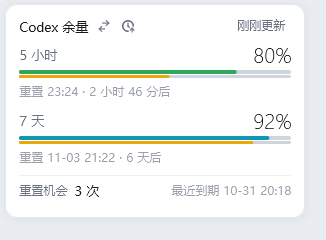
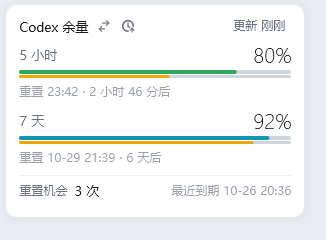
Revert "feat: three freshness states; stale data keeps its numbers readable"
This reverts commit 046c87d8dfeeff6c7dfdea384c7abfba7b8845b4.

diff --git a/src/ui.rs b/src/ui.rs
@@ -89,39 +89,18 @@ pub fn neutral_bar(light: bool) -> Rgba {
     }
 }
 
-/// One step lighter than `neutral_bar`: "this number is old", not "this number
-/// is gone". Two different failures need two different greys, otherwise a slow
-/// refresh looks exactly like a broken one.
-pub fn faded_bar(light: bool) -> Rgba {
-    if light {
-        Rgba::hex(0xB2BAC6)
-    } else {
-        Rgba::hex(0x5C6472)
-    }
-}
-
-/// How much the numbers on screen can still be trusted.
-#[derive(Clone, Copy, PartialEq, Eq, Debug)]
-pub enum Freshness {
-    /// fetched on schedule, nothing to apologise for
-    Fresh,
-    /// no error, but the sample is older than `STALE_AFTER`
-    Stale,
-    /// the latest attempt failed; `err` says why
-    Failing,
-}
-
 /// The two bars answer different questions. The 5h bar's colour is its
 /// **severity** (green / amber / red); the 7d bar's colour is its **identity**
 /// (cyan), so the two rows are told apart by colour instead of by weight and
-/// the bar never looks like it changed meaning. Old data gives up its colour
-/// (faded grey), failed data gives up more (neutral grey).
-fn bar_fill(t: &Theme, row: &RowView, state: Freshness) -> Rgba {
-    match state {
-        Freshness::Failing => neutral_bar(t.light),
-        Freshness::Stale => faded_bar(t.light),
-        Freshness::Fresh if row.limit_secs >= 86_400 => t.day,
-        Freshness::Fresh => severity(row.remaining),
+/// the bar never looks like it changed meaning. Grey wins over both when the
+/// data is stale.
+fn bar_fill(t: &Theme, row: &RowView, dim: bool) -> Rgba {
+    if dim {
+        neutral_bar(t.light)
+    } else if row.limit_secs >= 86_400 {
+        t.day
+    } else {
+        severity(row.remaining)
     }
 }
 
@@ -247,7 +226,7 @@ pub struct View {
 /// active cycle (180 s) with room for a retry, and short enough that a genuinely
 /// dead poller is obvious. The countdown bar is exempt — it is derived from the
 /// deadline, which does not rot with the data's age (see `paint_popover`).
-pub const STALE_AFTER: i64 = 900;
+const STALE_AFTER: i64 = 900;
 
 impl View {
     pub fn stale(&self) -> bool {
@@ -255,17 +234,6 @@ impl View {
     }
     pub fn failing(&self) -> bool {
         self.err.is_some() && self.err_at >= self.at
-    }
-    /// One value for the whole card: both painters read it, so the panel and the
-    /// mini can never disagree about how trustworthy the same number is.
-    pub fn freshness(&self) -> Freshness {
-        if self.failing() {
-            Freshness::Failing
-        } else if self.stale() {
-            Freshness::Stale
-        } else {
-            Freshness::Fresh
-        }
     }
 }
 
@@ -506,13 +474,6 @@ pub struct Hits {
 }
 
 /// The header's right-hand text, which doubles as the refresh button's label.
-///
-/// One verb, two states:「2 分钟前更新」when the sample is current and
-/// 「20 分钟未更新」once it is not. The old pair flipped the word order
-/// (「更新 2 分钟前」/「25 分钟前更新」), which read as two different facts when
-/// they were only one — and left the stale case looking like a typo. Swapping
-/// 更新/未更新 says the same thing in the same shape, and tells the user *why*
-/// the bars lost their colour.
 pub fn status_line(v: &View) -> String {
     if v.failing() {
         "更新失败".to_string()
@@ -520,11 +481,10 @@ pub fn status_line(v: &View) -> String {
         "刷新中…".to_string()
     } else if v.at == 0 {
         "读取中…".to_string()
-    } else if v.freshness() == Freshness::Stale {
-        // `ago` already says how long: "20 分钟前" -> "20 分钟未更新"
-        format!("{}未更新", fmt::ago(v.at, v.now).trim_end_matches('前'))
-    } else {
+    } else if v.stale() {
         format!("{}更新", fmt::ago(v.at, v.now))
+    } else {
+        format!("更新 {}", fmt::ago(v.at, v.now))
     }
 }
 
@@ -674,7 +634,6 @@ pub fn paint_popover(c: &mut Canvas, v: &View, t: &Theme, hover: Hover, scale: f
 
     let pad = s(PAD);
     let failing = v.failing();
-    let fresh = v.freshness();
     let hits = header_hits(v, scale, f);
 
     // header: title + switch on the left, refresh on the right ------------
@@ -792,18 +751,12 @@ pub fn paint_popover(c: &mut Canvas, v: &View, t: &Theme, hover: Hover, scale: f
             s(130.0) as i32,
             s(26.0) as i32,
             Align::Right,
-            // Stale numbers stay readable: they are still the best estimate we
-            // have, and greying them made the card look switched off. Only a
-            // failed fetch mutes them, because then we cannot vouch for them at
-            // all. Either way the severity tint is withdrawn — the colour was
-            // claiming a bucket the old sample may no longer be in.
-            match fresh {
-                Freshness::Failing => t.muted,
-                Freshness::Stale => t.text,
-                Freshness::Fresh if !v.show_used && row.remaining < 40.0 => {
-                    severity(row.remaining)
-                }
-                Freshness::Fresh => t.text,
+            if failing || v.stale() {
+                t.muted
+            } else if !v.show_used && row.remaining < 40.0 {
+                severity(row.remaining)
+            } else {
+                t.text
             },
         );
 
@@ -816,7 +769,7 @@ pub fn paint_popover(c: &mut Canvas, v: &View, t: &Theme, hover: Hover, scale: f
             s(BAR_H),
             frac as f32,
             t.track,
-            bar_fill(t, row, fresh),
+            bar_fill(t, row, failing || v.stale()),
         );
 
         // the time bar: full right after a reset, empty at the deadline.
@@ -964,11 +917,15 @@ pub fn paint_mini(c: &mut Canvas, v: &View, t: &Theme, hover: bool, scale: f32, 
     );
 
     let failing = v.failing();
-    let fresh = v.freshness();
     let rows = &v.rows;
     for i in 0..2.min(rows.len()) {
         let row = &rows[i];
         let y = if i == 0 { s(11.0) } else { s(30.0) };
+        let sev = if failing || v.stale() {
+            neutral_bar(t.light)
+        } else {
+            severity(row.remaining)
+        };
         card.text(
             &f.mini_label,
             &row.short,
@@ -997,7 +954,7 @@ pub fn paint_mini(c: &mut Canvas, v: &View, t: &Theme, hover: bool, scale: f32, 
             s(bar_h),
             frac as f32,
             t.track,
-            bar_fill(t, row, fresh),
+            bar_fill(t, row, failing || v.stale()),
         );
         // and the countdown bar underneath, one dp thinner than in the panel
         // because this card only has 50 dp to give. Amber even when the quota
@@ -1026,13 +983,12 @@ pub fn paint_mini(c: &mut Canvas, v: &View, t: &Theme, hover: bool, scale: f32, 
             s(35.0) as i32,
             s(12.0) as i32,
             Align::Right,
-            match fresh {
-                Freshness::Failing => t.muted,
-                Freshness::Stale => t.text,
-                Freshness::Fresh if !v.show_used && row.remaining < 40.0 => {
-                    severity(row.remaining)
-                }
-                Freshness::Fresh => t.text,
+            if failing || v.stale() {
+                t.muted
+            } else if !v.show_used && row.remaining < 40.0 {
+                sev
+            } else {
+                t.text
             },
         );
     }
@@ -1086,36 +1042,16 @@ mod tests {
     }
 
     /// The weekly bar is an identity colour: it must not drift into the 5h
-    /// severity palette, and old data drops out of both palettes.
+    /// severity palette, and both bars go grey together when the data is stale.
     #[test]
     fn weekly_bar_keeps_its_own_colour() {
         let t = theme(true);
-        let fresh = Freshness::Fresh;
-        assert_eq!(bar_fill(&t, &row(18_000, 90.0), fresh), severity(90.0));
-        assert_eq!(bar_fill(&t, &row(604_800, 90.0), fresh), t.day);
-        assert_eq!(bar_fill(&t, &row(604_800, 10.0), fresh), t.day);
-        assert_eq!(bar_fill(&t, &row(18_000, 10.0), fresh), severity(10.0));
-        assert_eq!(&bar_fill(&theme(false), &row(604_800, 90.0), fresh), &theme(false).day);
-    }
-
-    /// Three states, three fills — and the two greys must be far enough apart
-    /// that "old" cannot be mistaken for "broken" at a glance.
-    #[test]
-    fn freshness_gets_a_colour_of_its_own() {
-        let t = theme(true);
-        let w = row(604_800, 90.0);
-        let stale = bar_fill(&t, &w, Freshness::Stale);
-        let failing = bar_fill(&t, &w, Freshness::Failing);
-        assert_eq!(stale, faded_bar(true));
-        assert_eq!(failing, neutral_bar(true));
-        assert_ne!(stale, failing);
-        // faded is closer to the card than the failure grey: lighter in light
-        // mode, darker in dark mode
-        assert!(stale.r > failing.r, "light mode: faded must be lighter");
-        // in dark mode "less prominent" means darker, so the comparison flips
-        let d = theme(false);
-        assert!(faded_bar(false).r < neutral_bar(false).r, "dark mode: faded must sit closer to the track");
-        assert_ne!(bar_fill(&d, &w, Freshness::Fresh), stale);
+        assert_eq!(bar_fill(&t, &row(18_000, 90.0), false), severity(90.0));
+        assert_eq!(bar_fill(&t, &row(604_800, 90.0), false), t.day);
+        assert_eq!(bar_fill(&t, &row(604_800, 10.0), false), t.day);
+        assert_eq!(bar_fill(&t, &row(18_000, 10.0), false), severity(10.0));
+        assert_eq!(bar_fill(&t, &row(604_800, 90.0), true), neutral_bar(true));
+        assert_eq!(&bar_fill(&theme(false), &row(604_800, 90.0), false), &theme(false).day);
     }
 
     /// 15 minutes is the line: longer than one active cycle (180 s) with room

diff --git a/src/dev.rs b/src/dev.rs
@@ -127,15 +127,6 @@ pub fn render_all(dir: &str) {
             v.show_time = false;
             v
         }),
-        // the sample is older than STALE_AFTER but nothing failed: the bars lose
-        // their colour, the numbers stay readable. Rendered so the two greys can
-        // be compared against "error" side by side.
-        ("stale", {
-            let mut v = demo_view(now, 20.0, 8.0, None);
-            v.at = now - ui::STALE_AFTER - 300;
-            v.err_at = 0;
-            v
-        }),
         // ...and the clock button under the pointer, promising to bring them back
         ("time-hover", {
             let mut v = demo_view(now, 20.0, 8.0, None);
